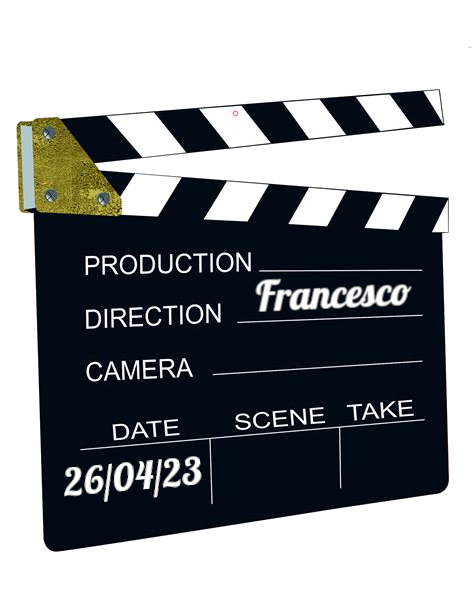
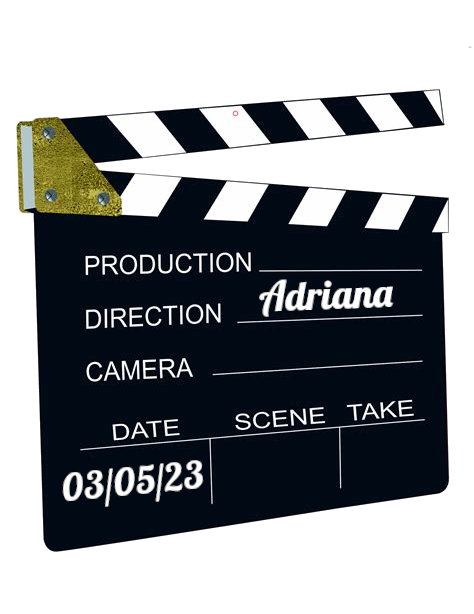
L'altro tema 3

Changed region(s): [[0.1181, 0.7427, 0.443, 0.8355], [0.5316, 0.4332, 0.8861, 0.5261]]

diff --git a/index.html b/index.html
@@ -34,14 +34,21 @@
 
 <br /><br />
 
-<h1>Mercoled&igrave; 26 aprile 2023</h1>
+<h1>Mercoled&igrave; 3 maggio 2023</h1>
 <h2>Alle 20:30 in Via Nizza, 72</h2>
 <img src="img/ciak.png" class="locandina"/>
-<h2>Tema: <i>L'altro tema</i> - Selezionatore: <i>Francesco</i></h2>
-
+<h2>Tema: <i>L'altro tema</i> - Selezionatrice: <i>Adriana</i></h2>
 
 <br /><br /><hr width="90%"><hr width="90%"><br /><br />
 
+<h1>Mercoled&igrave; 26 aprile 2023</h1>
+<p class="mtitle">
+<a href="https://www.imdb.com/title/tt2024519" target="_blank">Alabama Monroe - Una storia d'amore</a>
+</p>
+<img src="https://image.tmdb.org/t/p/w500/9kozq6PSE0jqIIO5xPcvpydzV4n.jpg" class="locandina"/>
+<h2>Tema: <i>L'altro tema</i> - Selezionatore: <i>Francesco</i></h2>
+
+<br /><br /><hr width="90%"><br /><br />
 
 <h1>Mercoled&igrave; 19 aprile 2023</h1>
 <p class="mtitle">

diff --git a/movieslist.html b/movieslist.html
@@ -29,6 +29,17 @@ Rassegnamoci, Cineforum a Programma Variabile - Elenco Film
   </thead>
   <tbody>
     <tr>
+      <td>26-Apr-2023</td>
+      <td>Alabama Monroe - Una storia d'amore</td>
+      <td>Francesco</td>
+      <td>L'altro tema</td>
+      <td>2012</td>
+      <td>Felix van Groeningen</td>
+      <td>111</td>
+      <td>BE; NL</td>
+      <td><a href="https://www.imdb.com/title/tt2024519" target="_blank">https://www.imdb.com/title/tt2024519</a></td>
+    </tr>
+    <tr>
       <td>19-Apr-2023</td>
       <td>Niente da nascondere</td>
       <td>Daniele</td>
